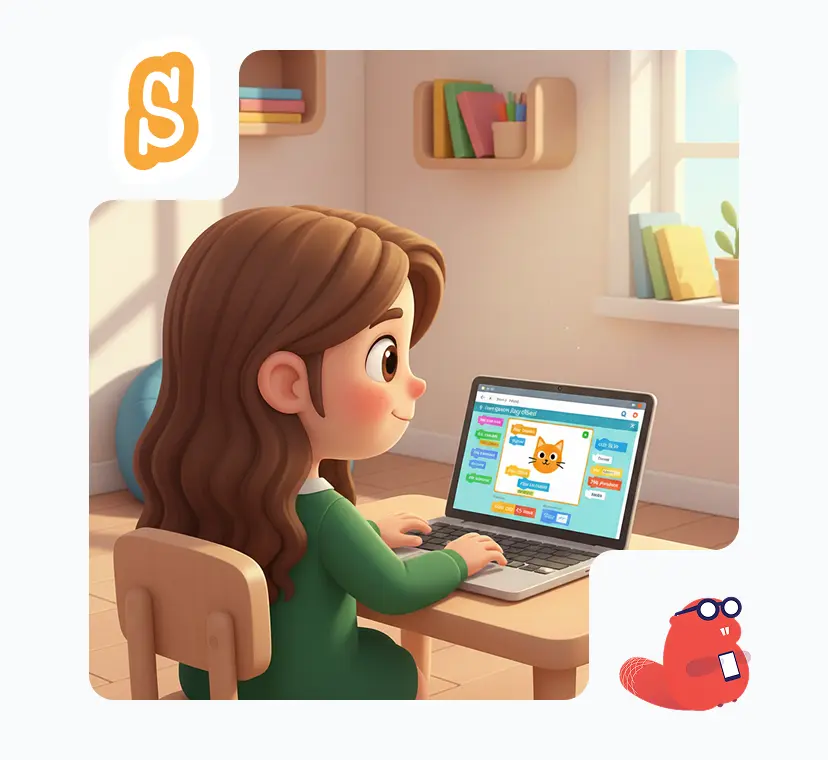
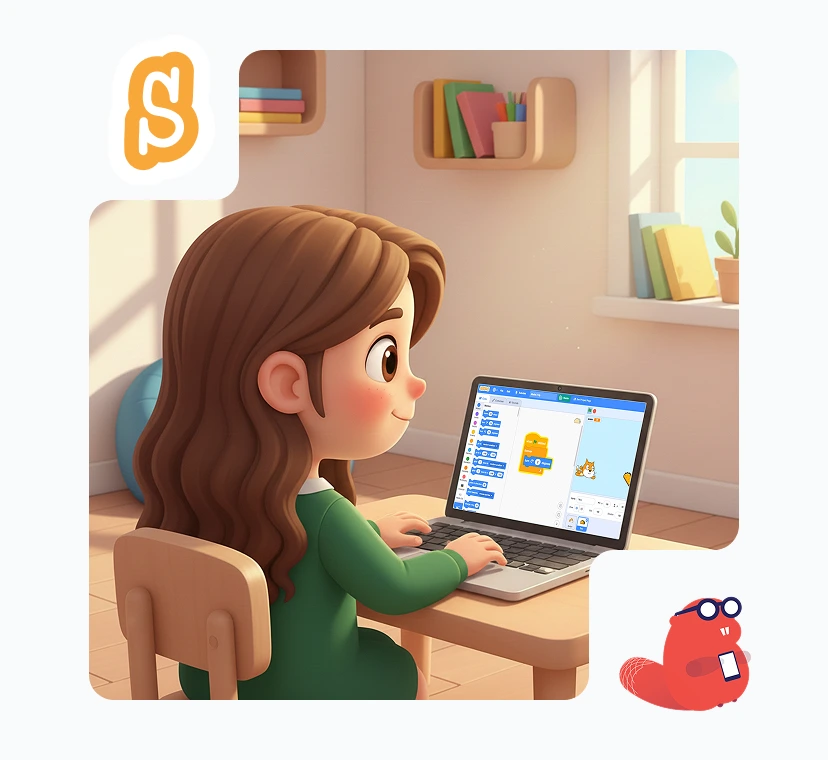
[UPDATE] Merubah program image-hero

Changed region(s): [[0.5435, 0.4842, 0.785, 0.7263]]

diff --git a/resources/views/pages/program.blade.php b/resources/views/pages/program.blade.php
@@ -3,7 +3,7 @@
 
     <x-program.hero title="Bangun Kreativitas Anak Lewat Teknologi !"
         subtitle="Alhazen Academy membantu anak memahami teknologi lewat program coding, animasi, robotika, dan desain interaktif."
-        ctaText="Daftar Kelas Gratis" ctaHref="{{ route('trial') }}" imgHero="assets/kids/program/card-photo.webp" />
+        ctaText="Daftar Kelas Gratis" ctaHref="{{ route('trial') }}" imgHero="assets/kids/program/lainnya-hero.webp" />
 
     <x-program.detail-program slogan="Sesuaikan Program, Maksimalkan Potensi Anak"
         title="Semua kurikulum telah terakreditasi STEM.org."
